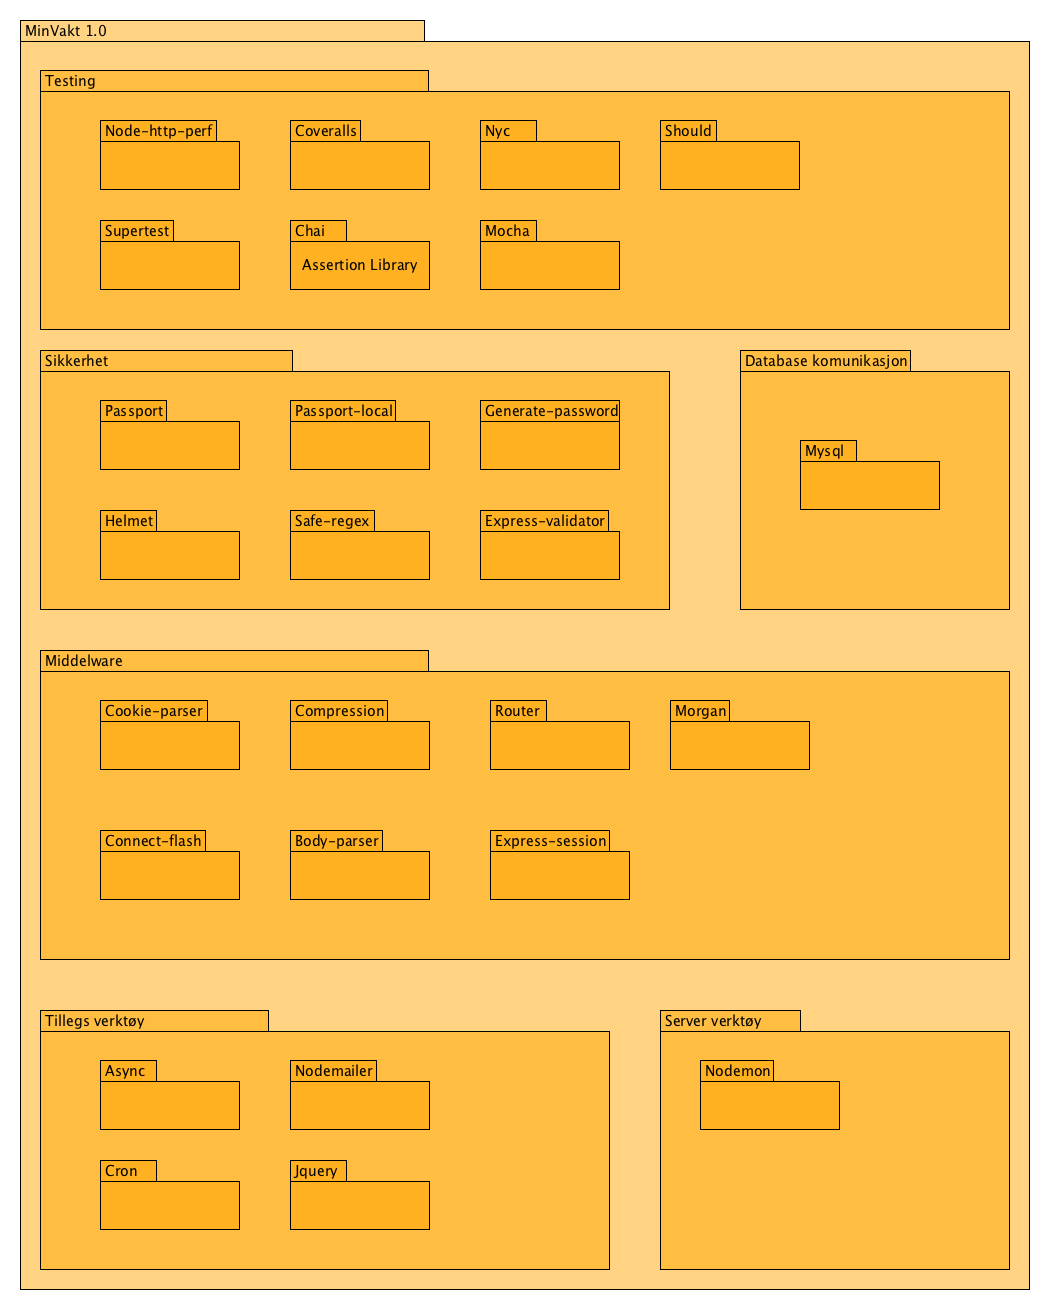
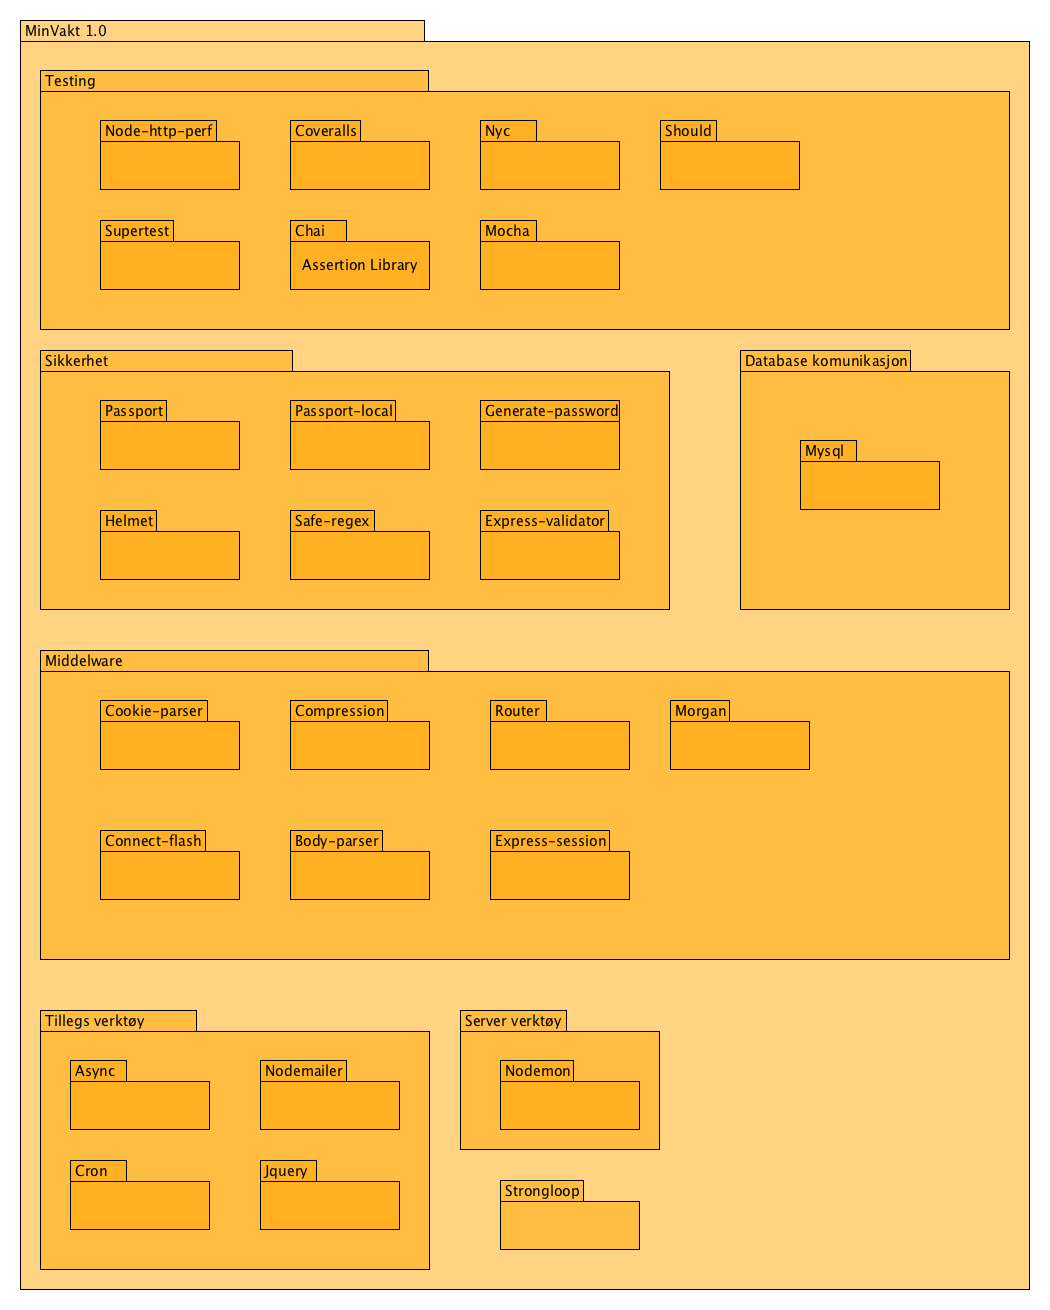
Merge remote-tracking branch 'remotes/origin/master' into frontEnd
# Conflicts:
#	controllers/configRoute.js
#	package.json
#	public/css/login.css
#	public/frontendJS/shiftOverview.js
#	views/login.html

Changed region(s): [[0.3657, 0.7634, 0.9752, 0.9771], [0.1829, 0.7634, 0.3657, 0.9466], [0.061, 0.7939, 0.1524, 0.9466]]

diff --git a/documentation.js b/documentation.js
@@ -54,3 +54,9 @@ documentation.build(['./public/frontendJS/frontpageAdmin.js'], {}, function (err
         fs.writeFileSync('./documentation/frontpageAdmin.md', output);
     });
 });
+
+documentation.build(['./public/frontendJS/adminShifts.js'], {}, function (err, res) {
+    documentation.formats.md(res, {}, function(err, output) {
+        fs.writeFileSync('./documentation/adminShifts.md', output);
+    });
+});

diff --git a/documentation/adminShifts.md b/documentation/adminShifts.md
@@ -1,0 +1,78 @@
+<!-- Generated by documentation.js. Update this documentation by updating the source code. -->
+
+## getAvailableEmpForShift
+
+Fetches the employees available for the the selected shift.
+
+**Parameters**
+
+-   `id`  
+
+## saveFillShift
+
+Saves the chosen employee for the chosen shift
+
+## createNumberDropdown
+
+Creates select-amount-dropdown for the new-shift-modal.
+
+## getDispersion
+
+Finds the amount of each employeetype for a shift.
+
+**Parameters**
+
+-   `res`  
+
+Returns **{syk: any, hjelp: any, annet: [number](https://developer.mozilla.org/en-US/docs/Web/JavaScript/Reference/Global_Objects/Number)}** 
+
+## updateTable
+
+Updates the employee-table in the new-shift-modal.
+
+## createPeopleDropdown
+
+Creates the dropdowns in the employees-table in the new-shift-modal.
+
+**Parameters**
+
+-   `antSyk`  
+-   `antHjelp`  
+-   `antAnnet`  
+-   `sykList`  
+-   `hjelpList`  
+-   `annetList`  
+
+## makeDropdownS
+
+creates a dropdown.
+
+**Parameters**
+
+-   `selector`  
+-   `list`  
+
+## makeDropdown
+
+creates a dropdown.
+
+**Parameters**
+
+-   `selector`  
+-   `list`  
+
+## addAllColumnHeaders
+
+Adds columnheaders.
+
+**Parameters**
+
+-   `list`  
+-   `selector`  
+
+Returns **[Array](https://developer.mozilla.org/en-US/docs/Web/JavaScript/Reference/Global_Objects/Array)** 
+
+## createNewShifts
+
+Insert new shifts in the database, and binds them with an employee if chosen.
+It cancels if an employee is chosen more than once.
